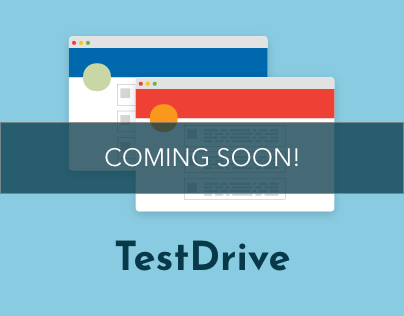
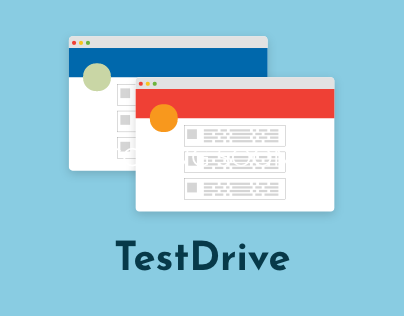
Added TestDrive

Changed region(s): [[0.0, 0.3703, 1.0, 0.6266]]

diff --git a/html/TestDrive.html b/html/TestDrive.html
@@ -1,0 +1,133 @@
+<!DOCTYPE html>
+
+<html>
+    <head>
+        <title>Nika Faith Ablao</title>
+        <meta name="viewport" content="width=device-width, initial-scale=1">
+        <link rel="stylesheet" type="text/css" href="../css/style.css">
+        <link rel="shortcut icon" href="../img/nfa.ico" type="image/x-icon">
+        <script src="https://ajax.googleapis.com/ajax/libs/jquery/3.3.1/jquery.min.js"></script>
+        <script>
+            $(document).ready(function() {
+                var par = $('.mLinks');
+                var x = $('#x_out');
+                var ham = $('#ham_menu');
+                $(x).hide();
+                $(par).hide();
+  
+                $(ham).click(function(e) {
+                    $(par).slideToggle();
+                    $(x).toggle();
+                    $(ham).toggle();
+                    $("body").css("overflow", "hidden");
+                    e.preventDefault();
+                });
+
+                $(x).click(function(e) {
+                    $(par).slideToggle();
+                    $(ham).toggle();
+                    $(x).toggle();
+                    $("body").css("overflow", "visible");
+                    e.preventDefault();
+                });
+            });
+        </script>
+    </head>
+
+    <body>
+        <!--header-->
+        <div id="header">
+            <a href="../index.html"><img id="icon" src="../img/icon.png"></a>
+            <!--desktop menu-->
+            <div id="menu">
+                <ul>
+                    <li><a href="../index.html">WORK</a></li>
+                    <li><a href="about.html">ABOUT</a></li>
+                    <li><a target="_blank" href="../NAblao_Resume.pdf">RESUME</a></li>
+                    <li><a target="_blank" href="../NikaAblao_Portfolio2018.pdf">PDF PORTFOLIO</a></li>
+                </ul>
+            </div>
+
+            <!--mobile menu-->
+            <div id="m_menu">
+            <a href="../index.html"><img id="m_icon" src="../img/icon.png"></a>
+            <svg id="ham_menu" width="31px" height="24px" viewBox="0 0 31 24" version="1.1" xmlns="http://www.w3.org/2000/svg" xmlns:xlink="http://www.w3.org/1999/xlink">
+                <!-- Generator: Sketch 49.3 (51167) - http://www.bohemiancoding.com/sketch -->
+                <desc>Created with Sketch.</desc>
+                <defs></defs>
+                <g id="Hi-Fidelity" stroke="none" stroke-width="1" fill="none" fill-rule="evenodd" stroke-linecap="round">
+                    <g id="Browse-V3" transform="translate(-16.000000, -34.000000)" stroke="#979797" stroke-width="4">
+                        <g id="Header">
+                            <g id="Hamburger-Menu" transform="translate(18.000000, 36.000000)">
+                                <path d="M0,0.8 L26.4,0.8" id="Path-6"></path>
+                                <path d="M0,9.6 L26.4,9.6" id="Path-6"></path>
+                                <path d="M0,19.2 L26.4,19.2" id="Path-6"></path>
+                            </g>
+                        </g>
+                    </g>
+                </g>
+            </svg>
+
+
+            <svg id="x_out" width="30px" height="23px" viewBox="0 0 30 23" version="1.1" xmlns="http://www.w3.org/2000/svg" xmlns:xlink="http://www.w3.org/1999/xlink">
+                <!-- Generator: Sketch 49.3 (51167) - http://www.bohemiancoding.com/sketch -->
+                <desc>Created with Sketch.</desc>
+                <defs></defs>
+                <g id="Symbols" stroke="none" stroke-width="1" fill="none" fill-rule="evenodd" stroke-linecap="round">
+                    <g id="X" transform="translate(-2.000000, -3.000000)" stroke="#979797" stroke-width="4">
+                        <g id="Hamburger-Menu" transform="translate(4.000000, 5.000000)">
+                            <path d="M0,0.8 L26,18.8" id="Path-6"></path>
+                            <path d="M0,18.8 L26,0.6" id="Path-6"></path>
+                        </g>
+                    </g>
+                </g>
+            </svg>
+
+            <br><br><br>
+            <div class="mLinks">
+                <ul>
+                    <li><a href="../index.html">WORK</a></li>
+                    <li><a href="about.html">ABOUT</a></li>
+                    <li><a target="_blank" href="../NAblao_Resume.pdf">RESUME</a></li>
+                    <li><a target="_blank" href="../NikaAblao_Portfolio2018.pdf">PDF PORTFOLIO</a>
+                </ul>
+            </div>
+
+            </div>
+
+        <div class="title_cont">
+            <p class="worktitle"><span>Social Media TestDrive</span></p>
+            <h3>2018</h3>
+            <img class="workpic" src="../img/TestDrive/Banner.png">
+        </div>
+
+        <div class="textCont">
+            <p class="worksubtitle">The Goal</p>
+            <p>In an effort to better educate children about smart social media practices such as using secure passwords, creating safe usernames, and discerning whether a site is trustworthy or not, the Cornell Social Media Lab collaborated with Common Sense Media to create lesson plans for teachers to educate their students in the classroom about Internet safety.</p>
+
+            <p>Over the course of a month, my team and I brainstormed, designed, and developed the site that will host these lesson plans, as well as additional information for parents to use to supplement the lectures. </p>
+
+            <p class="worksubtitle">The Brainstorm</p>
+            <div class="screen_cont"><img class="deskss" src="../img/TestDrive/Brainstorm.jpeg"></div>
+            <div class="widetext_box">
+                <p>While TestDrive's main users were teachers and parents, we decided that it should be clear that the receivers of the lessons are children. In order to do this, the team and I chose a bright color palette for the site. We particularly focused on green and blue in order to better visually represent the collaboration with Common Sense Media, which main colors are green and blue.</p>
+            </div>
+
+            <p class="worksubtitle">The Design</p>
+            <div class="screen_cont"><img class="deskss" src="../img/TestDrive/Landing Page.png"></div>
+            <div class="widetext_box">
+                <p>The full prototype of the site can be located <a href="https://invis.io/WPN6FEPKCRE">here</a>.</p>
+                <p>The lesson content that was produced by our fellow RAs was purely text based, so we designed the site in a way that would be able to communicate a fun, kid-friendly metaphor with little to no graphics. In order to do this, white backgrounds are almost exclusively on text-heavy areas such as on lesson pages, boxes of the lesson grids, or other articles. Otherwise, the background of the different sections are bright and colorful.</p>
+
+                <p>Another factor that played a major part in our design choices was the frontend development capabilities of the team. While I and another team member were very well versed in frontend development, the other two team members were just learning how to create sites with HTML, CSS, and Javascript. Because of this, we ensured that the site was kept relatively simple and largely based on different templates. This allowed these team members to view this project more as a learning experience rather than a stressful lab project. </p>
+            </div>
+
+            
+        </div>
+
+        <div id="footer">
+            <p>&#169; Nika Faith Ablao</p>
+        </div>
+
+    </body>
+</html>

diff --git a/index.html b/index.html
@@ -102,7 +102,7 @@
         </div>
 
         <!--TestDrive-->
-        <a href="#">
+        <a href="html/TestDrive.html">
             <div class="work">
                 <img class="work_tile_pic" src="img/TestDrive/TestDrive_tile.png">
                 <div class="work_tile_text">
